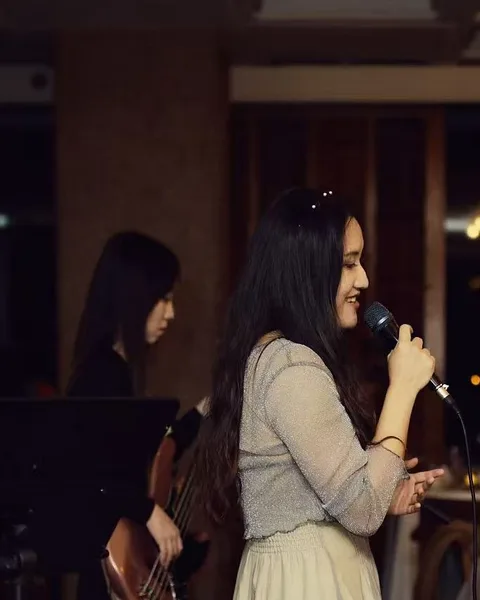
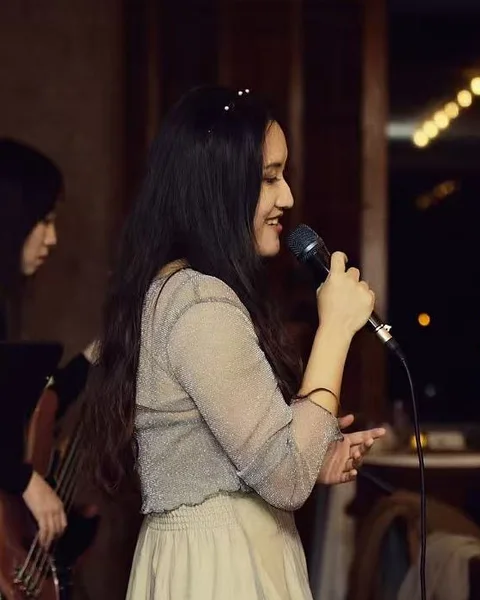
Recrop Joy member photo

diff --git a/index.html b/index.html
@@ -459,7 +459,7 @@
 <p class="section-lead sd rv" data-i18n="t114">现任成员与特邀嘉宾。</p>
 <div class="member-grid">
 <article class="member sd">
-<img alt="Joy Qiu（Sakura）演唱" class="member-photo sd zoom" data-i18n-alt="alt115" decoding="async" height="1000" loading="lazy" src="img/member-joy.webp?v=2" width="800" srcset="img/s/member-joy-480.webp?v=2 480w, img/member-joy.webp?v=2 800w" sizes="(max-width: 980px) 46vw, 240px"/>
+<img alt="Joy Qiu（Sakura）演唱" class="member-photo sd zoom" data-i18n-alt="alt115" decoding="async" height="1000" loading="lazy" src="img/member-joy.webp?v=3" width="800" srcset="img/s/member-joy-480.webp?v=3 480w, img/member-joy.webp?v=3 800w" sizes="(max-width: 980px) 46vw, 240px"/>
 <div class="member-body">
 <h3>Joy Qiu</h3>
 <span class="nick">Sakura</span>
